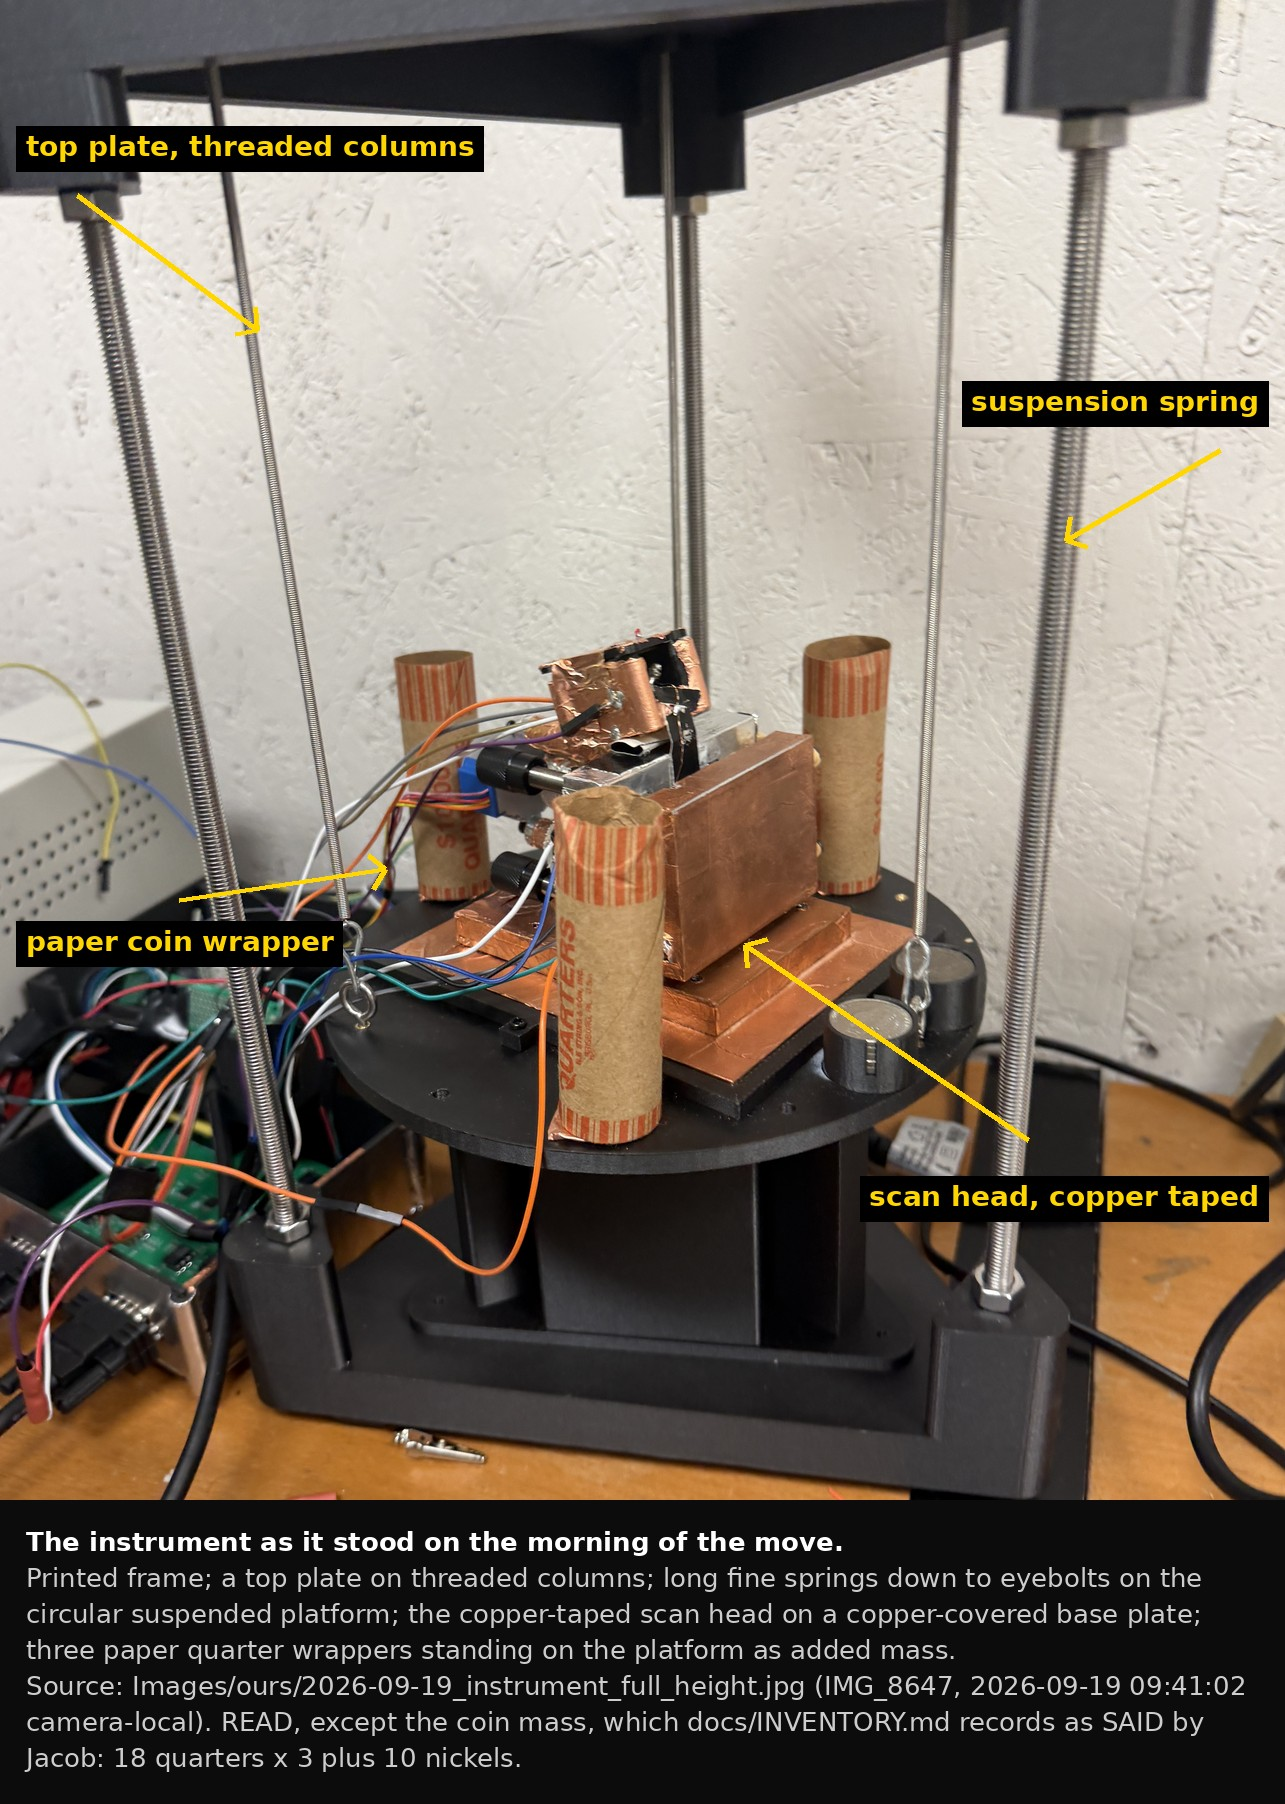
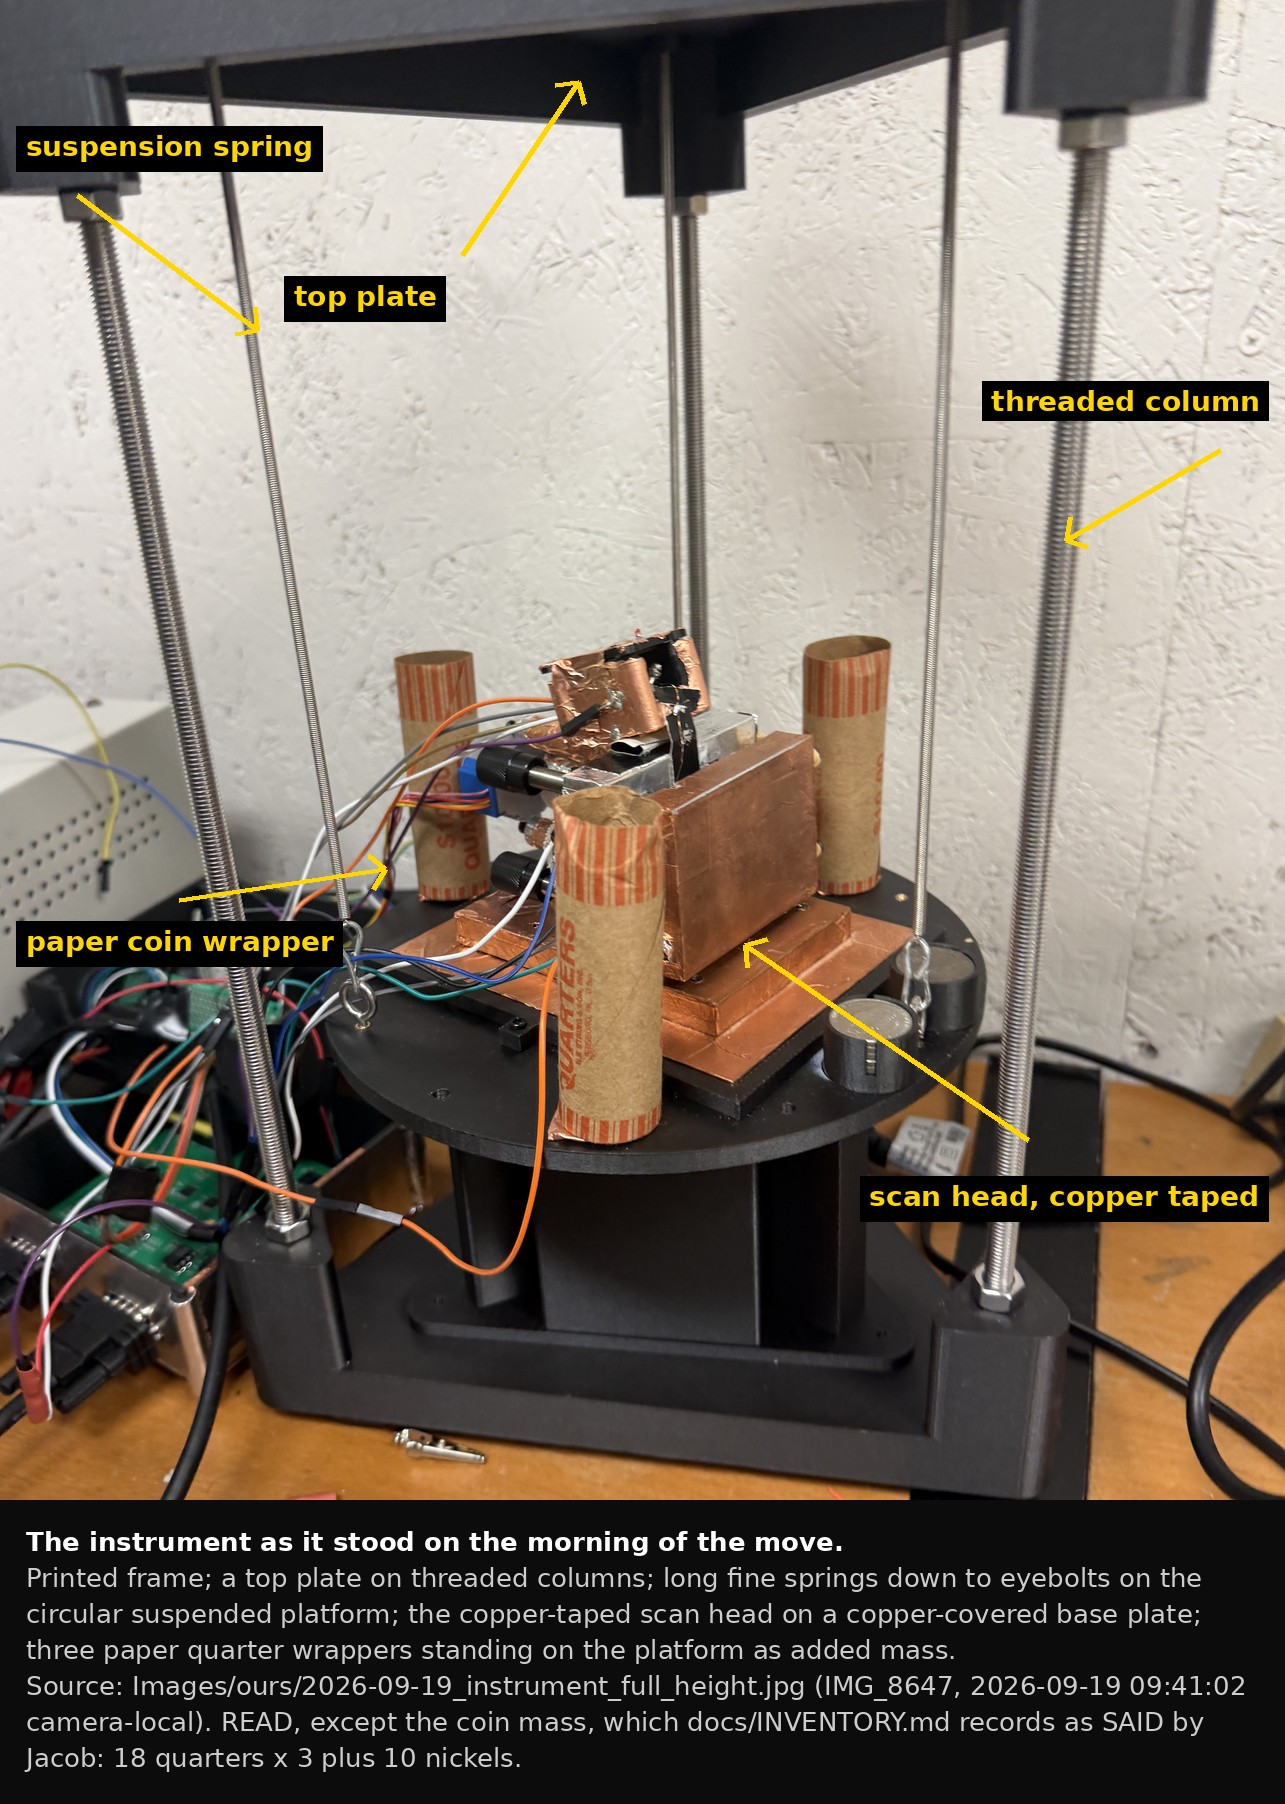
Lead with the finding; contact to the bottom; the operating-system section
Jacob, 2026-09-20.

- The top of the page now reads 'We detected tunnelling'. What we could not do
  is a sentence later, links to the section that sets it out, and is still in
  full two sections down. It is no longer the headline.
- Email is off the top entirely: out of the bar and out of the hero. It appears
  once in context at the end of What stopped us, then in the closing block and
  the footer.
- 'The second instrument' rewritten around what Jacob asked to foreground: that
  neither of them writes code, Claude wrote all of it, and GitHub is what let
  two people on two computers do that without losing track of what was true.
  Six cards for the six pieces - the protocol, the register, the checker, the
  logbook, the shared spine, the review pass - each naming its real file.
  106 commits, counted.
- CORRECTED, Jacob: the instrument photograph had its arrows crossed. The one
  on the left lands on a thin coiled spring and was labelled 'threaded
  columns'; the one on the right lands on a thick threaded rod and was labelled
  'suspension spring'. Both fixed and a third arrow added for the top plate.

Claude-Session: https://claude.ai/code/session_01CLtV6xnKSgVVYUj8cpUsms

diff --git a/deliverables/2026-09-19-pause/site/index.html b/deliverables/2026-09-19-pause/site/index.html
@@ -80,6 +80,17 @@
   .price .r.ours .a{ color:var(--verified); }
   @media (max-width:560px){ .price .r{ grid-template-columns:1fr; } }
 
+
+  /* ---------- the operating system: what runs on what ---------- */
+  .sys{ display:grid; grid-template-columns:repeat(2,minmax(0,1fr)); gap:16px; margin-block:2em; }
+  @media (max-width:760px){ .sys{ grid-template-columns:1fr; } }
+  .sys > div{ border:1px solid var(--line); border-radius:2px; padding:1.1em 1.2em; background:var(--raise); }
+  .sys h4{ font-family:'Inter',sans-serif; font-size:var(--s2); font-weight:600; margin:0 0 .15em;
+           color:var(--ink); letter-spacing:0; }
+  .sys .f{ font-family:ui-monospace,'SFMono-Regular',Menlo,Consolas,monospace; font-size:12.5px;
+           color:var(--gold); margin-bottom:.5em; }
+  .sys p{ font-size:var(--s1); color:var(--ink2); line-height:1.55; margin:0; }
+
   /* ---------- the bar that stays ----------
      The page is a single long document with eleven parts. A reader needs to know
      where they are in it and how to reach us without scrolling to the end, so the
@@ -370,11 +381,10 @@
       <a href="#workflow">How we worked</a>
       <a href="#about">About us</a>
       <a href="#record">The record</a>
-      <a class="menu-mail" href="mailto:jacob@quis.com?subject=We%20Are%20STMing">Email us</a>
+      <a href="#next">What is next</a>
     </div>
     <button class="navtoggle" id="navtoggle" type="button"
             aria-expanded="false" aria-controls="navlinks">Sections</button>
-    <a class="btn btn-1 btn-sm nav-cta" href="mailto:jacob@quis.com?subject=We%20Are%20STMing">Email us</a>
   </div>
 </nav>
 
@@ -384,18 +394,20 @@
   <h1>We built a scanning tunnelling microscope in a basement</h1>
 
   <div class="claim">
-    <p>We detected tunnelling, but weren&rsquo;t able to maintain tunnelling range for long enough to get an image.</p>
-    <p class="attrib">A microscope that reads a surface by measuring a current a billionth of an
-    amp across a gap narrower than an atom. We built it over one summer, between our first and
-    second years of university, on a wooden bench on a concrete floor.
+    <p>We detected tunnelling &mdash; electrons crossing a gap narrower than an atom, measured by
+    an amplifier we built.</p>
+    <p class="attrib">A scanning tunnelling microscope reads a surface by measuring a current a
+    billionth of an amp flowing across a gap that nothing is touching. We built one over a summer
+    on a wooden bench on a concrete floor, between our first and second years of university.
     <strong>No laboratory, no faculty advisor, no grant.</strong> Neither of us had written a
-    program or really soldered before this, and every measurement below can be recomputed from the
-    raw files.</p>
+    program or really soldered before this. Every measurement on this page can be recomputed from
+    the raw files, and <a href="#tunnelling">what we could not do</a> is set out as plainly as what
+    we could.</p>
   </div>
 
   <div class="actions">
     <a class="btn btn-1" href="#what">Start with what an STM is</a>
-    <a class="btn btn-2" href="mailto:jacob@quis.com?subject=We%20Are%20STMing">Email us about the drift</a>
+    <a class="btn btn-2" href="#measured">Go straight to the measurements</a>
   </div>
 
   <div class="byline"><b>Jacob Katz</b>, University of California San Diego<br>
@@ -680,22 +692,84 @@
 
 <section id="workflow">
   <h2>The second instrument</h2>
-  <p class="lede">Neither of us writes code. So the other thing we built was the framework that does, and that catches it when it is wrong.</p>
-  <p class="measure">Two people, two computers, days apart. The failure that kills a project like this is not a hard experiment &mdash; it is a number corrected in one document and left standing in the eleven others that quote it. That is not hypothetical: one day two constants changed, both were already written into more than a dozen documents, and correcting every copy anyone could think of still left stale values in six files.</p>
-  <p class="measure">So every number in the project now lives in exactly one place, carries a tag recording how it is known, and is checked by a program rather than by memory.</p>
+  <p class="lede">Neither of us writes code. <strong>Claude wrote all of it</strong> &mdash; the
+  firmware, the analysis, the figures, the documents &mdash; and GitHub is what let two people on
+  two computers run that without losing track of what was true.</p>
+
+  <p class="measure">That arrangement has an obvious failure mode. A model will write you a
+  confident paragraph about a measurement it has half-remembered, and it will do it in a voice that
+  sounds exactly like the paragraphs that are right. On a project where a wrong number can destroy
+  a piezo or waste a week, that is not a small problem.</p>
+
+  <p class="measure">The failure that actually kills a project like this is duller than a hard
+  experiment: <strong>a number corrected in one document and left standing in the eleven others
+  that quote it.</strong> That is not hypothetical. One day two constants changed, both were already
+  written into more than a dozen documents, and correcting every copy anyone could think of still
+  left stale values in six files.</p>
+
+  <h3>So we built an operating system for the project</h3>
+  <p class="measure">Not a model &mdash; the model is off the shelf. What is ours is everything
+  around it: a set of rules the model has to read before it is allowed to do anything, one file
+  that owns every number, a log per working session that is never rewritten, and a program that
+  checks the whole thing and refuses the commit if it fails.</p>
+
+  <div class="sys" data-rv>
+    <div data-rv><h4>The protocol</h4><div class="f">CLAUDE.md</div>
+      <p>575 lines the model reads before anything else: how to start a session, which document
+      wins when two disagree, and the hardware rules that cost money to break. It is written in
+      plain language because it is also how we tell it what we have learned.</p></div>
+    <div data-rv><h4>The register</h4><div class="f">docs/FACTS.md</div>
+      <p>One canonical value for every number that matters, each with its units, how it is known
+      &mdash; measured, calculated, read off a datasheet, or simply told to us &mdash; and the date.
+      Change a value here first, and every stale copy elsewhere becomes findable.</p></div>
+    <div data-rv><h4>The checker</h4><div class="f">Code/pc/check_facts.py</div>
+      <p>565 lines, seven classes of test. It hunts retired values sitting in live documents,
+      broken file references, superseded procedures being cited as current, and safety-rule
+      citations that no longer point at the rule they name. It runs at every session start and a
+      Git hook blocks the commit when it fails.</p></div>
+    <div data-rv><h4>The logbook</h4><div class="f">sessions/</div>
+      <p>One append-only log per working session, 27 of them, each with what was measured, what was
+      ruled out and what went wrong. Past readings are never edited. When a later session corrects
+      an earlier one, the correction is written beside it, not over it.</p></div>
+    <div data-rv><h4>The shared spine</h4><div class="f">git &middot; GitHub</div>
+      <p>Two people, two computers, often days apart. Every session starts by pulling and ends by
+      pushing, and a start-up hook does the pull, runs the checker and prints what changed since
+      last time. <strong>106 commits.</strong> Neither of us has ever had to ask the other what
+      state the project was in.</p></div>
+    <div data-rv><h4>The review pass</h4><div class="f">LEAD_VERIFICATION.md</div>
+      <p>Every claim re-derived independently from the raw files before it was allowed into
+      anything public &mdash; including three where the reviewer was wrong and had to be corrected
+      back. That document is on this page, unedited.</p></div>
+  </div>
+
+  <figure class="photo band" data-rv><img src="img/laptop.jpg" width="1200" height="1600" alt="Jacob and Nuh at the bench with a laptop, a working session open on the screen." loading="lazy">
+    <p class="cap">A session in progress. <b>The model does the writing and the arithmetic; the
+    framework is what catches it.</b></p>
+  </figure>
+
+  <h3>What proves it works is the retractions</h3>
+  <p class="measure">Anyone can get an AI to write confident prose. <strong>The test is whether it
+  will take something back.</strong> This machinery forced the project to withdraw claims it had
+  already published: a statistical result computed across files that stopped early; a reproducible
+  feature in a scan that turned out to be the feedback loop recovering from a jump rather than the
+  sample; a detector&rsquo;s full-scale voltage recorded backwards in a live reference; and eleven
+  wrong numbers in a single commit, caught before the second push.</p>
+  <p class="measure">Every one of those is still in the record beside what replaced it. <strong>None
+  of them was caught by either of us reading carefully.</strong> They were caught by a rule that
+  said where a number lives, and a program that checked.</p>
 
   <div class="tally" data-rv>
     <div><div class="t num">575</div><div class="l">lines of operating protocol, read before anything else happens</div></div>
     <div><div class="t num">164</div><div class="l">rows in the register: every value, its provenance, its date</div></div>
-    <div><div class="t num">27</div><div class="l">session logs, append-only, never rewritten</div></div>
+    <div><div class="t num">106</div><div class="l">commits, across two computers and two people</div></div>
     <div><div class="t num">565</div><div class="l">lines of checker, seven tests, run at every session start</div></div>
   </div>
 
-  <figure class="photo band" data-rv><img src="img/laptop.jpg" width="1200" height="1600" alt="Jacob and Nuh at the bench with a laptop, a working session open on the screen." loading="lazy">
-    <p class="cap">A session in progress. <b>The model does the writing and the arithmetic; the framework is what catches it.</b></p>
-  </figure>
-  <p class="measure"><strong>What proves it works is the retractions.</strong> The checks and verification passes forced this project to withdraw its own published claims &mdash; a statistical result computed across truncated files, a reproducible feature that turned out to be the feedback loop rather than the sample, a detector&rsquo;s full-scale voltage recorded backwards in a live reference, and eleven wrong numbers in a single commit caught before the second push.</p>
-  <p class="measure">An AI that writes confident prose is not hard to get. One that produces a retraction is, and that is the part we built. We did not train a model; the model is off the shelf. The discipline around it is ours.</p>
+  <p class="measure">We think this is the part of the project most worth copying. The microscope is
+  a known design; plenty of people have built one. <strong>Two people who cannot write code running
+  a real instrument through a model, and ending up with a record that catches its own mistakes, is
+  the part we had not seen done.</strong> The whole framework is in the repository and is not
+  specific to microscopes.</p>
 </section>
 
 <section id="about">

diff --git a/deliverables/2026-09-19-pause/photos/prepare_photos.py b/deliverables/2026-09-19-pause/photos/prepare_photos.py
@@ -223,9 +223,11 @@ def p04():
     d = ImageDraw.Draw(c)
     W, H = c.size
     arrow(d, (W * 0.06, H * 0.13), (W * 0.20, H * 0.22))
-    label(d, (W * 0.02, H * 0.09), "top plate, threaded columns", 28)
+    label(d, (W * 0.02, H * 0.09), "suspension spring", 28)
     arrow(d, (W * 0.95, H * 0.30), (W * 0.83, H * 0.36))
-    label(d, (W * 0.98, H * 0.26), "suspension spring", 28, anchor="rt")
+    label(d, (W * 0.98, H * 0.26), "threaded column", 28, anchor="rt")
+    arrow(d, (W * 0.36, H * 0.17), (W * 0.45, H * 0.055))
+    label(d, (W * 0.34, H * 0.19), "top plate", 28, anchor="rt")
     arrow(d, (W * 0.14, H * 0.60), (W * 0.30, H * 0.58))
     label(d, (W * 0.02, H * 0.62), "paper coin wrapper", 28)
     arrow(d, (W * 0.80, H * 0.76), (W * 0.58, H * 0.63))
